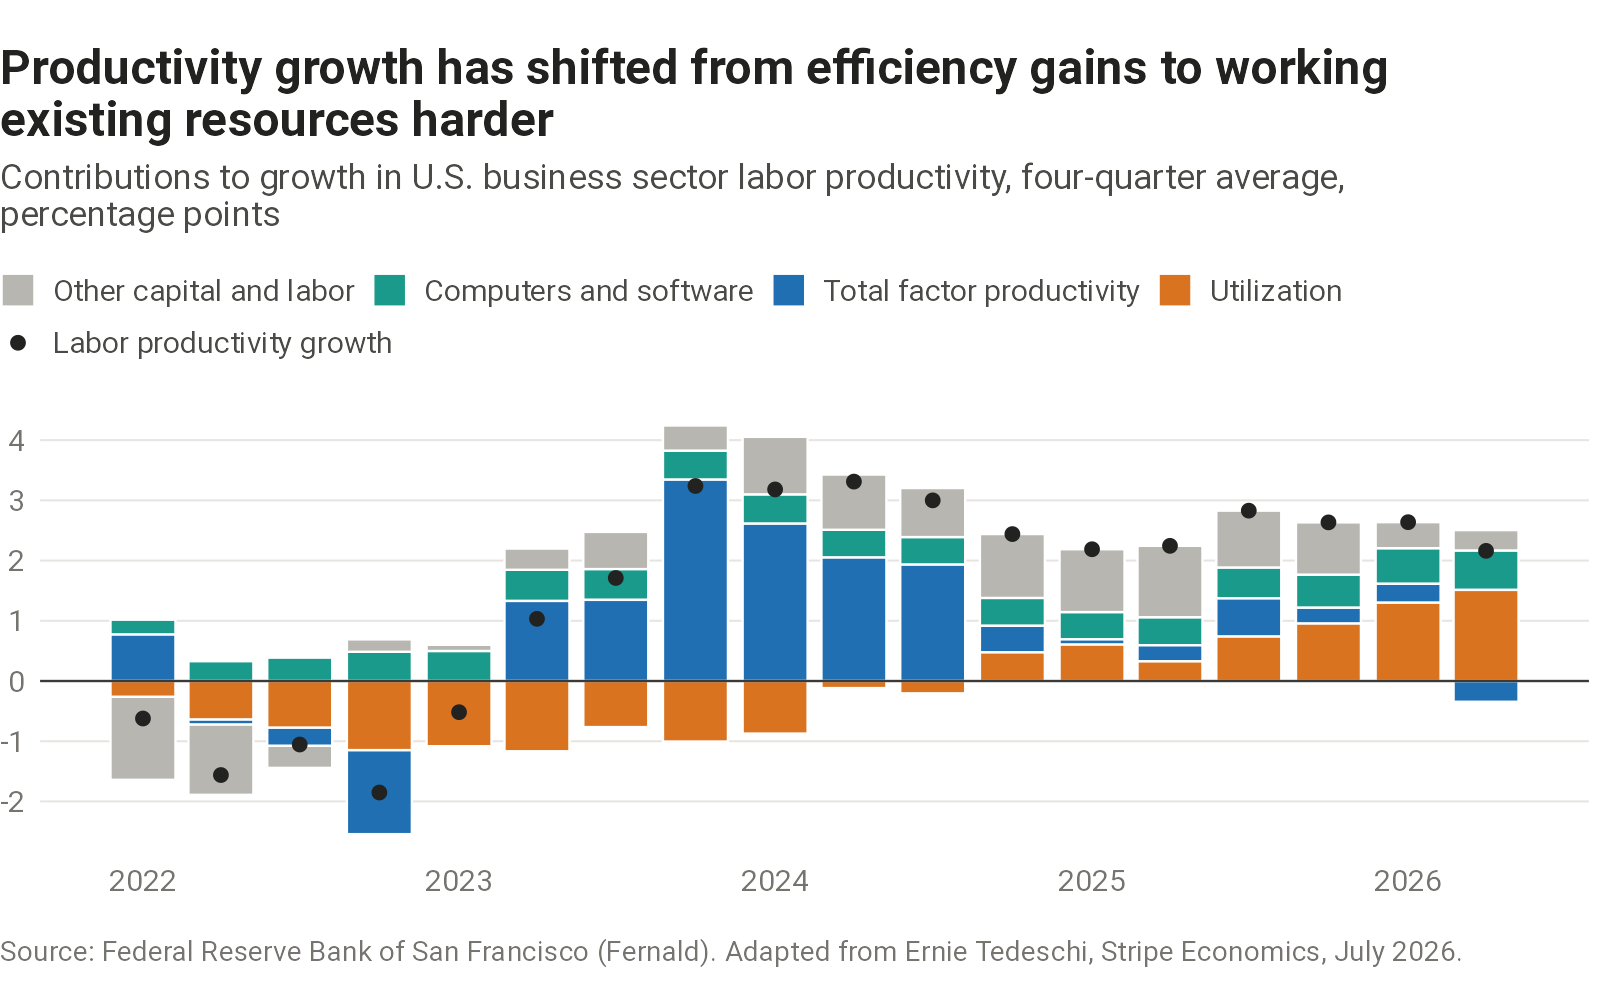
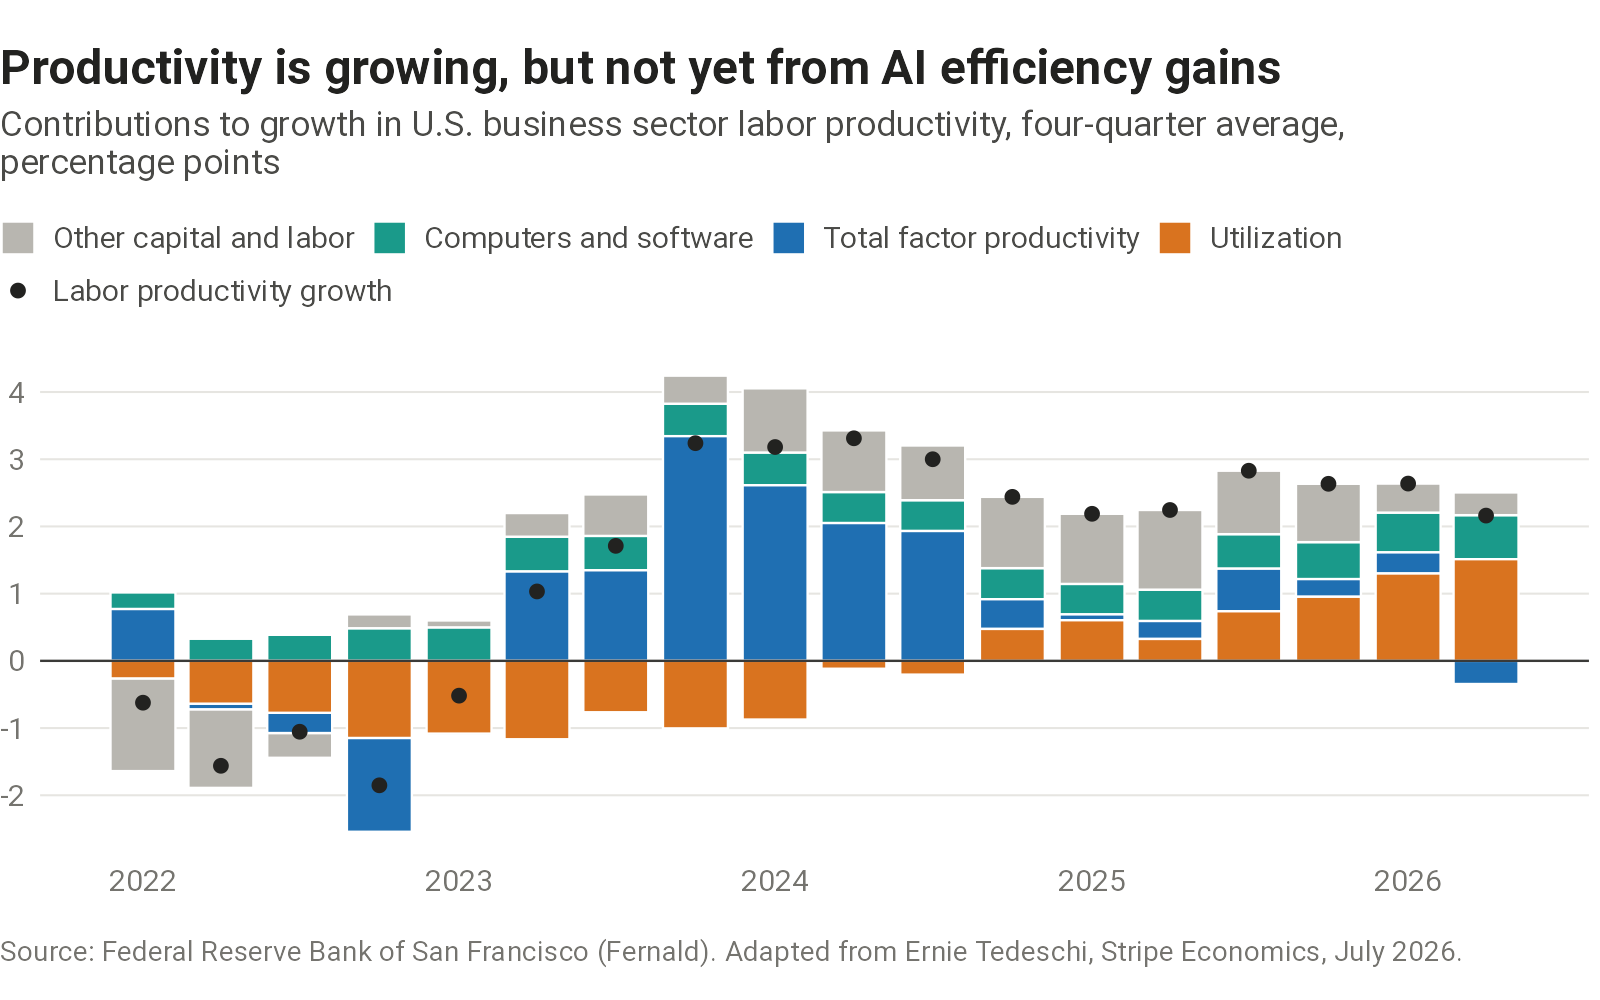
Connect the productivity chart to AI
Title and text follow Tedeschi's reading: the acceleration comes from
the buildout (utilization and computer investment), not from AI making
businesses more efficient, which would show up in total factor
productivity.

Claude-Session: https://claude.ai/code/session_01C4kQtTHdakDNHHerQuEFwM

diff --git a/charts/productivity-decomposition/spec.md b/charts/productivity-decomposition/spec.md
@@ -84,4 +84,4 @@ Record decisions here with a date and the reason.
 - 2026-09-26: Added the four-component version. Four-quarter averages, 2026 Q2: labor productivity 2.16, utilization 1.51, computer and software capital deepening 0.66, other deepening and labor composition 0.34, utilization-adjusted TFP -0.34. Computer and software deepening has risen every quarter since 2025 Q2 (0.47).
 - 2026-09-26: Components are four-quarter trailing means of the quarterly annualized log changes. A black point shows labor productivity growth itself, since stacked bars with negative segments make the total hard to read.
 - 2026-09-26: Publish the four-component version only. It answers whether AI is raising productivity through investment, efficiency, or neither. Short legend labels, each defined in one line of the notes. Title: "Recent productivity growth comes from higher utilization and computer investment."
-- 2026-09-26: Title: "Productivity growth has shifted from efficiency gains to working existing resources harder." States the change the chart shows, from total factor productivity in 2023 and 2024 to utilization since 2025. Check on each refresh that utilization still leads and total factor productivity is still small.
+- 2026-09-26: Title: "Productivity is growing, but not yet from AI efficiency gains." The text ties the chart to AI with Tedeschi's reading: the acceleration comes from firms pushing existing capacity to meet demand for AI (utilization) and from computer investment, while total factor productivity, where efficiency gains from using AI would show up, is flat to negative. The data show the split, not that utilization is AI-related, so the text attributes that link to Tedeschi and says "appears." Check on each refresh that utilization still leads and total factor productivity is still small.

diff --git a/charts/productivity-decomposition/output/productivity-decomposition-lead.md b/charts/productivity-decomposition/output/productivity-decomposition-lead.md
@@ -1,1 +1,1 @@
-Productivity growth remains solid, but it now comes from businesses working their existing staff and equipment harder and from investment in computers, not from efficiency gains. Labor productivity grew 2.2 percent over the past four quarters. Higher utilization added 1.5 percentage points and computers and software 0.7. Total factor productivity, the best gauge of efficiency, subtracted 0.3 point, after adding as much as 3.3 points in 2023.
+So far, AI appears to be lifting productivity through the buildout rather than by making businesses more efficient. Labor productivity grew 2.2 percent over the past four quarters. Higher utilization—working existing staff and equipment harder—added 1.5 percentage points, and investment in computers and software 0.7. Tedeschi argues that much of the higher utilization reflects firms pushing servers, factories, and other capacity they already have to meet demand for AI. Total factor productivity, where efficiency gains from using AI would show up, subtracted 0.3 point, after adding as much as 3.3 points in 2023.
